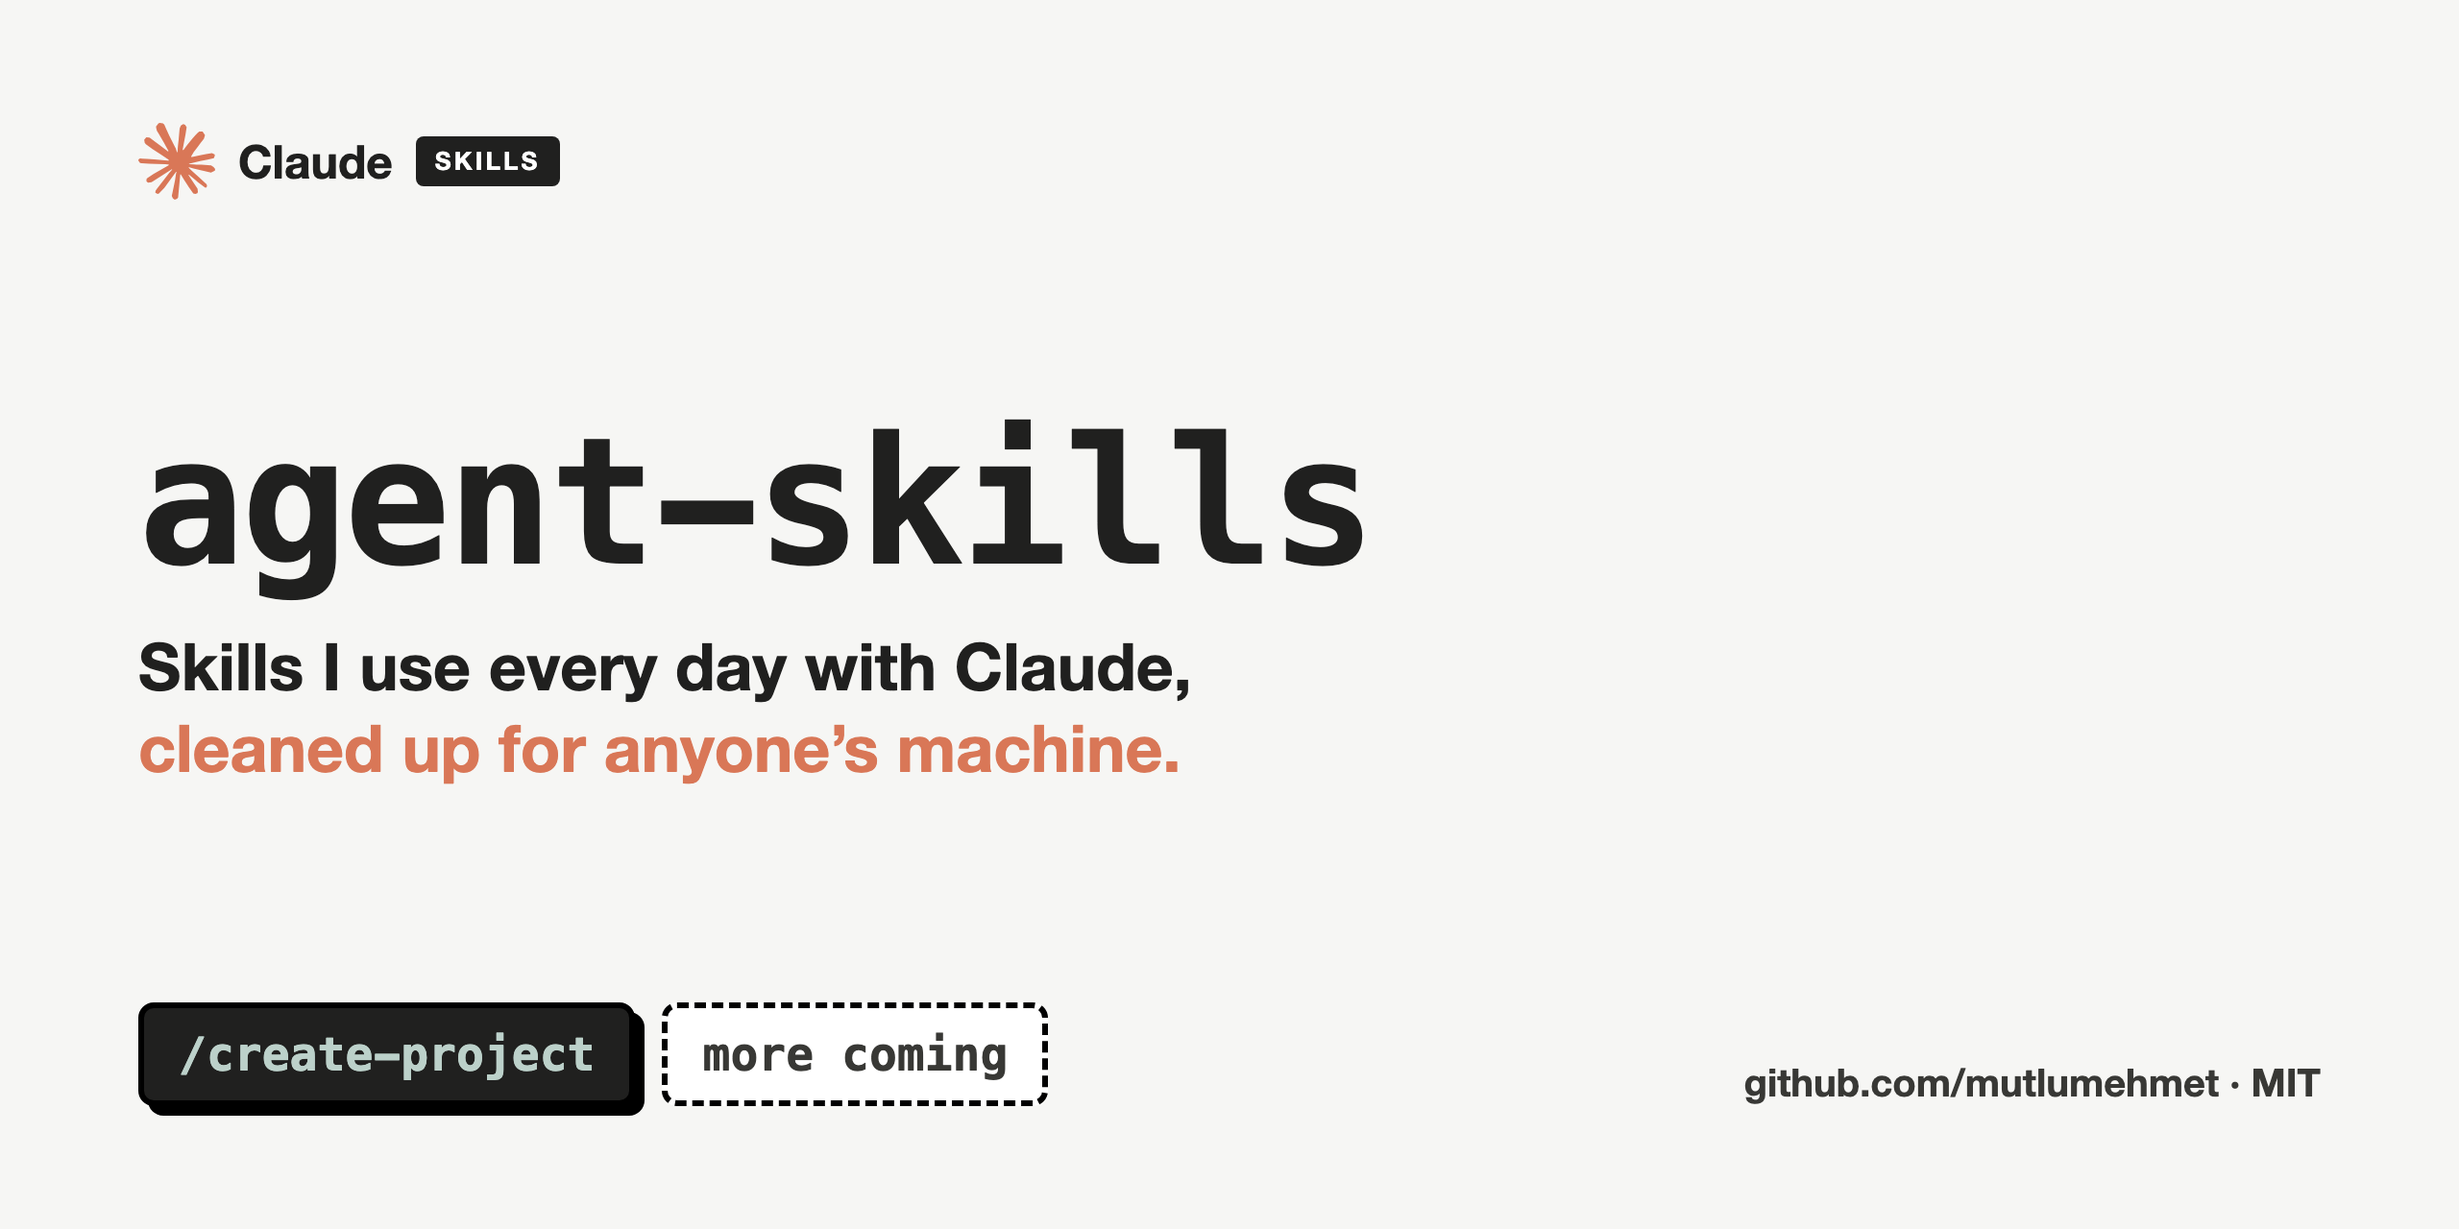
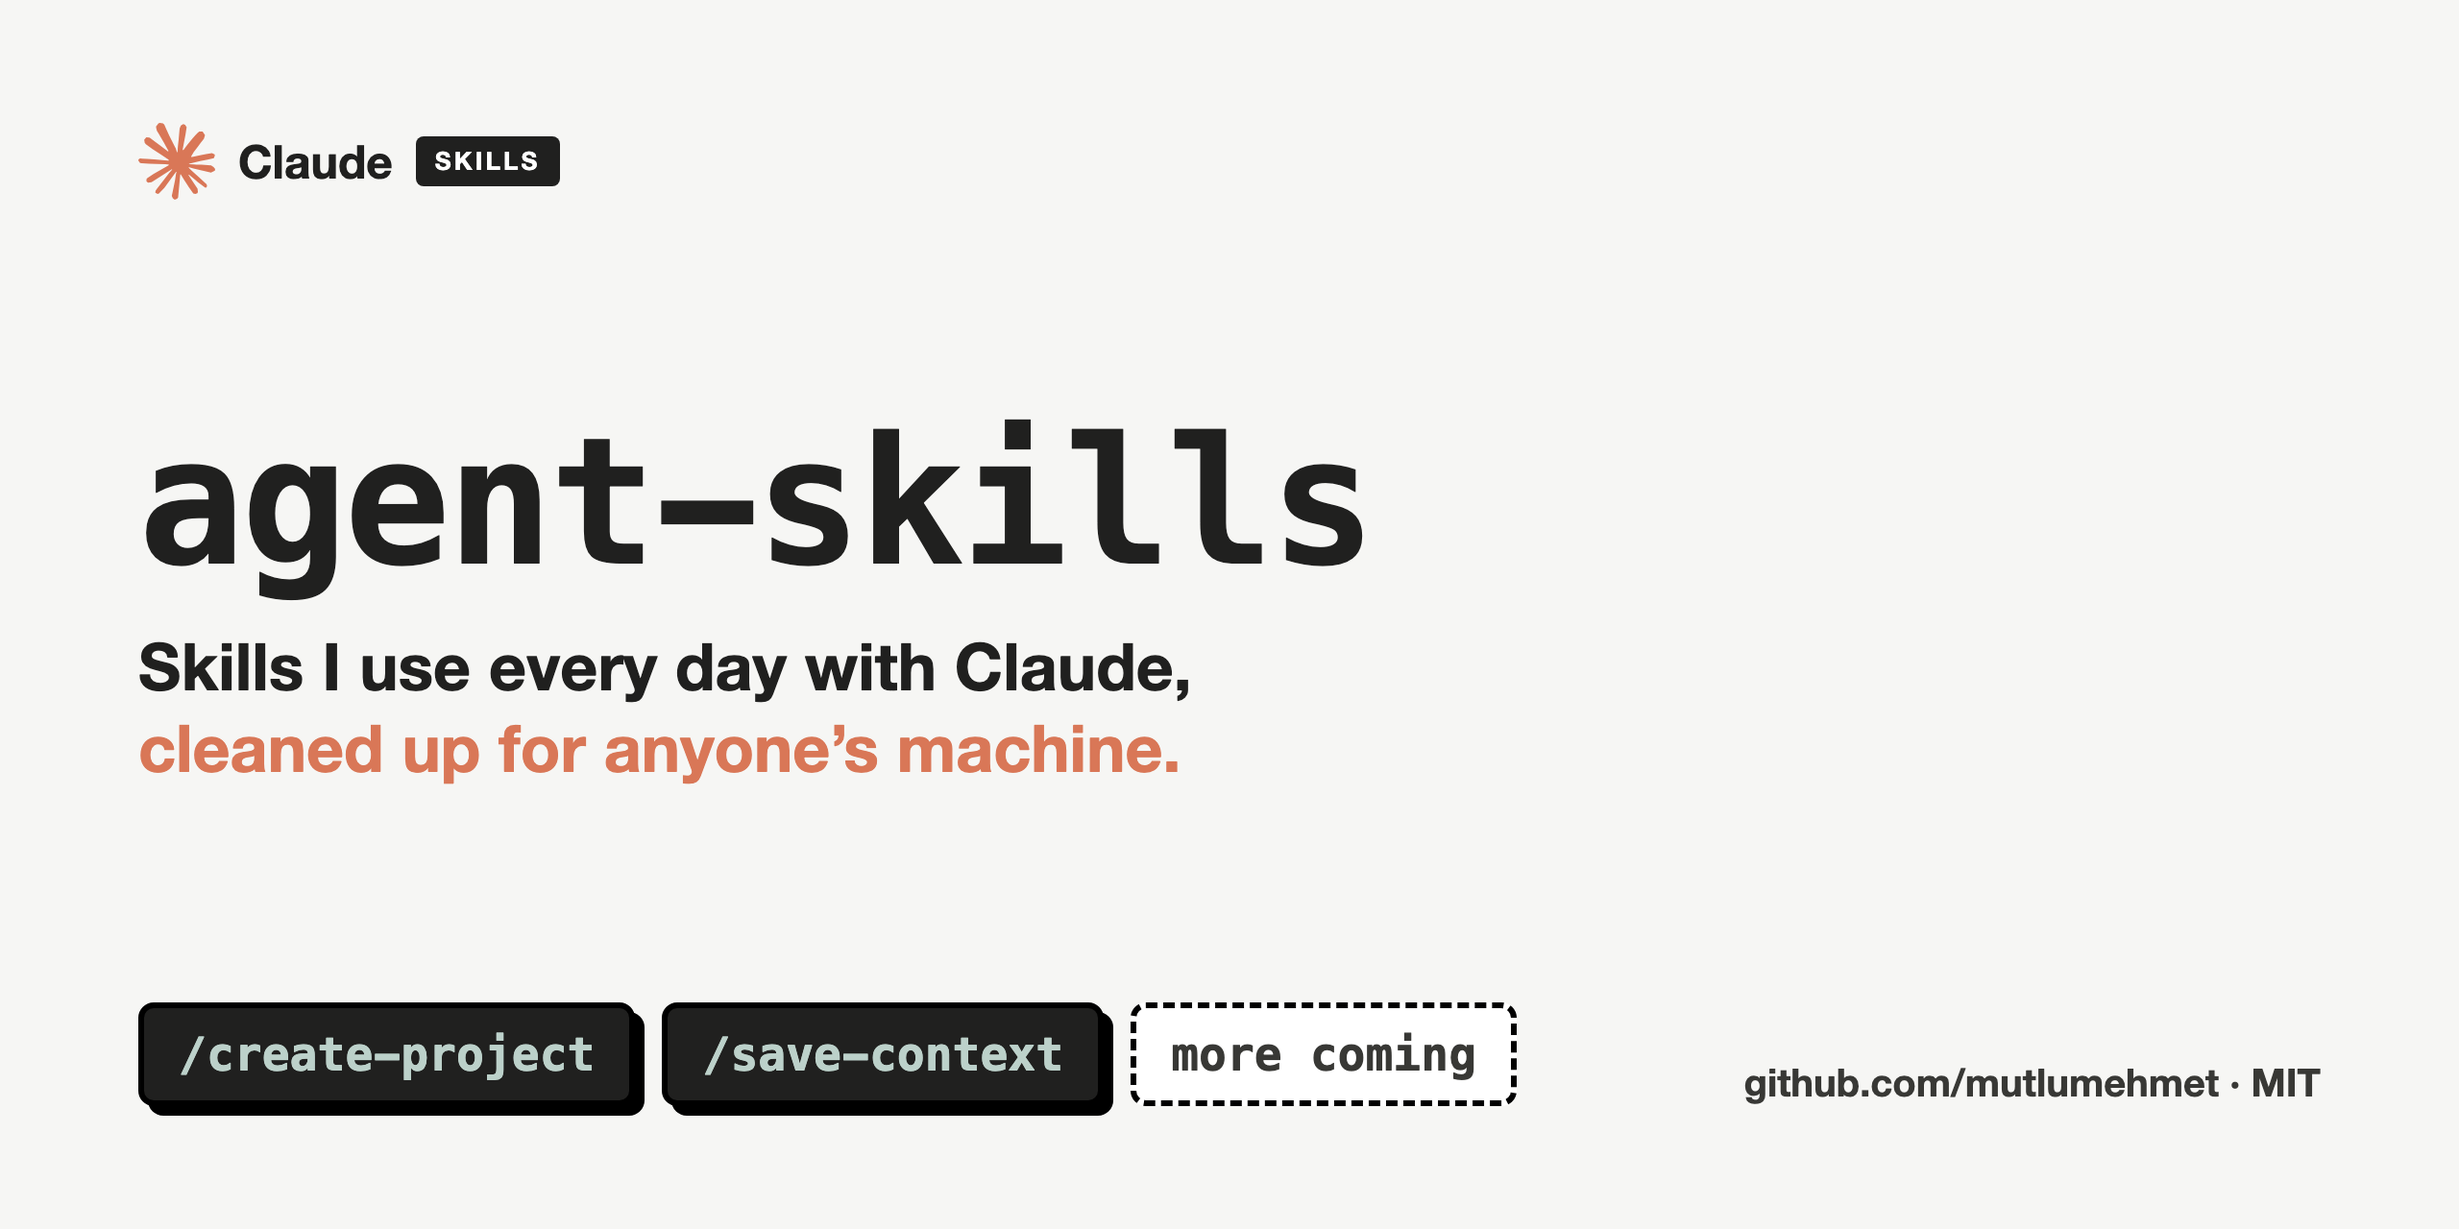
Add save-context: save a session's decisions and state before closing it

Changed region(s): [[0.25, 0.8125, 0.625, 0.9062]]

diff --git a/skills/save-context/SKILL.md b/skills/save-context/SKILL.md
@@ -1,0 +1,202 @@
+---
+name: save-context
+description: Saves what a working session decided, changed, learned or left open, so the next conversation starts with it already in context. Discovers what the project keeps (STATUS.md, CLAUDE.md, the agent's memory files, registers, context folders), maps each item from the conversation to the one place it belongs, shows the user the plan in one list, writes it after approval, hands items to other skills that own a destination, and commits only the files it touched without pushing. Works in any project. Use at the end of a session, or as a checkpoint before switching to a different task. Triggers on "save context", "save-context", "wrap up", "wrap-up", "close the session", "did you update everything", "update status and memory", "save the context", "before we close", "before I close this", "handoff", "checkpoint", "make sure the next session knows".
+allowed-tools:
+  - Bash
+  - Read
+  - Write
+  - Edit
+  - AskUserQuestion
+  - Skill
+---
+
+# Save context before closing a session
+
+The goal is one thing: **a fresh session, reading only what the project already tells it to read,
+must know everything from this conversation that matters later.** Anything that only mattered
+inside this conversation stays out.
+
+## Step 0: Load the config (optional)
+
+The config lives at `$SAVE_CONTEXT_CONFIG` if set, otherwise `~/.config/save-context/config.yaml`.
+
+```bash
+CFG_FILE="${SAVE_CONTEXT_CONFIG:-$HOME/.config/save-context/config.yaml}"; test -f "$CFG_FILE" && cat "$CFG_FILE"
+```
+
+Every key is optional and the skill works with no file at all, so there is no setup round. If the
+file is missing, use the defaults below and carry on. `config.example.yaml` next to this file
+documents each key.
+
+| Key | Default | Effect |
+|---|---|---|
+| `tasks_skill` | empty | Skill that records dated promises and to-dos (for example a Notion or Todoist task skill). Empty: such items go to STATUS.md under next steps |
+| `commit` | `true` | Commit the touched files at the end. `false`: leave them uncommitted and say so. Pushing never happens either way |
+
+## Step 1: Discover what this project keeps
+
+Do not assume a layout. Find it.
+
+```bash
+ROOT=$(git rev-parse --show-toplevel 2>/dev/null || pwd); echo "$ROOT"
+ls "$ROOT"; git -C "$ROOT" status --short 2>/dev/null
+CC="${CLAUDE_CONFIG_DIR:-$HOME/.claude}"
+MEM="$CC/projects/$(echo "$ROOT" | sed 's|/|-|g')/memory"; ls "$MEM" 2>/dev/null
+```
+
+`MEM` is where Claude Code keeps per-project memory. If the environment uses a different memory
+location or format (its system prompt will say), follow that instead.
+
+Then read, in this order:
+
+1. The project's `CLAUDE.md` (and any nested one it points to). It names the files that carry
+   state, the reading order, language rules, and which files are canonical vs mirrors or
+   superseded. **Its rules override this skill** (for example: shared docs in one language and
+   private notes in another; a folder that is an export and must not be edited; counts verified by
+   a script).
+2. `STATUS.md` if it exists.
+3. `MEMORY.md` in the memory directory, plus any memory file whose description touches what this
+   session worked on.
+4. Every other context file the CLAUDE.md reading order names (registers, "where we stand"
+   summaries, context folders such as `context/`, `docs/`, `notes/`). Only the ones this session
+   could have made stale.
+
+Note which files were already modified or untracked before you started. They are not yours to
+commit (Step 6).
+
+If the project has no STATUS.md and no CLAUDE.md, say so in the plan and propose creating
+STATUS.md only. Never invent a CLAUDE.md without asking.
+
+## Step 2: Harvest the conversation
+
+Go through the whole conversation, including anything compacted into a summary, and list every
+item of these kinds:
+
+- **Decisions** made, reversed, or deferred, with the reason.
+- **State changes**: things built, fixed, deployed, sent, closed, measured. Include identifiers a
+  later session needs (dates, ids, URLs, PR numbers, counts).
+- **New facts** about the project, the system, people, or constraints.
+- **Corrections and preferences** the user gave about how to work. These become memory.
+- **Open threads**: what is next, what is blocked and on whom, what was promised to someone.
+- **Traps discovered**: things that looked one way and were another.
+
+Then drop anything a fresh session can already get from the code, git log, or existing files, and
+anything that only mattered for this conversation.
+
+## Step 3: Route each item
+
+| Item | Goes to |
+|---|---|
+| Where things stand, what is next, open threads, blockers | `STATUS.md` |
+| How the user wants the agent to work: corrections, confirmed approaches | memory, type `feedback` |
+| Lasting non-obvious project facts, constraints, traps | memory, type `project` or `reference` |
+| A lasting rule or decision that every session must obey | `CLAUDE.md` (rare; routine progress never goes here) |
+| A row in a project register (findings, decisions, incidents) | the register, through its owning skill if one exists |
+| A summary or context file this session made stale | that file, edited in place |
+| A dated promise to someone, a thing to do later | `tasks_skill` if set, otherwise STATUS.md next steps |
+
+Rules for routing:
+
+- **Owning skills first.** A skill owns a destination when its description says it writes there
+  (a findings register, a task list, a ticket tracker). List the item as "hand to <skill>" and
+  invoke that skill after approval. Never hand-roll what a skill does, because it may keep two
+  places in sync or apply checks you would skip.
+- **One home per fact.** If the project separates registers from tasks (a fact vs a promise), keep
+  each item in exactly one place.
+- **Update, don't duplicate.** If an existing memory or STATUS line covers it, change that line.
+  Delete memories this session proved wrong. Fix a stale line rather than appending a contradicting
+  one below it.
+- **Absolute dates.** Turn "today", "tomorrow", "Thursday" into real dates.
+- **Superseded files** keep their banner and are not edited back into life.
+
+## Step 4: Show the plan, once
+
+Present one compact list, grouped by destination, each line saying what will change:
+
+```
+STATUS.md
+  - "Now": cutover moved to 14 Oct, with the reason
+  - "Next": waiting on the client for sign-off
+Memory
+  - new feedback: recommend one option, not a menu (feedback_recommend_one.md)
+  - update project_env_count.md: 8 environments, not 6
+Register (via findings-log)
+  - Red: nightly backups not running since 3 Sep
+Nothing to save
+  - the typo fix in a throwaway script
+```
+
+Always include the "Nothing to save" group, so the user can pull something back in. If there is
+nothing to save, say "Nothing new to save, everything is already recorded" and stop.
+
+Ask with `AskUserQuestion`: write all / let me adjust / skip. Do not write before the answer. This
+step is the point of the skill: the user sees what will be remembered, and can catch a wrong or
+missing item while the conversation is still fresh.
+
+## Step 5: Write
+
+Order matters, because STATUS.md should describe what actually happened, not what was planned:
+
+1. **Run the owning skills first** (register rows, tasks). They often assign something the other
+   files should cite, such as a register ref or a task link.
+2. **Then write the files**, citing those results. If a handoff was declined, failed, or could not
+   run, put it in STATUS.md under next steps as still pending (for example "backup finding not yet
+   in the register"). Never write that something is "tracked in the task list" or "in the register"
+   unless that handoff actually succeeded, because the next session will trust the sentence and not
+   check.
+
+While writing:
+
+- **Re-read each file immediately before editing it.** Another session may have written to it since
+  Step 1. Address table columns by header, not position. If the project has a check script for a
+  file (its CLAUDE.md will name it), run it after editing.
+- Follow the project's language rules per file.
+- **Touch only the lines this session changed.** Do not restyle, reflow or "fix" untouched lines,
+  even to apply a style rule; it hides the real change in the diff and can collide with another
+  session's edit.
+- STATUS.md: keep it a current picture, not a diary. Rewrite the sections that changed; move
+  finished items out of "next" instead of piling up history.
+- Memory files, one fact per file, named `<type>_<slug>.md`:
+
+  ```markdown
+  ---
+  name: <short-kebab-case-slug>
+  description: <one-line summary, used to decide relevance during recall>
+  metadata:
+    type: user | feedback | project | reference
+  ---
+
+  <the fact>
+
+  **Why:** <reason>  (feedback and project types)
+  **How to apply:** <what to do differently>
+  ```
+
+  Link related memories with `[[slug]]`, and add or update a one-line pointer in `MEMORY.md`:
+  `- [Title](file.md): hook`.
+
+## Step 6: Commit, never push
+
+Skip this step if `commit: false` or the folder is not a git repo. Memory lives outside the repo
+and is not committed.
+
+```bash
+git -C "$ROOT" status --short
+git -C "$ROOT" diff --stat
+```
+
+- Stage **only the files this run touched**, by name. Never `git add -A`. Files that were already
+  modified or untracked before you started (Step 1) belong to the user or another session: leave
+  them, and mention them in the report.
+- If a file you touched also carries someone else's uncommitted changes, do not commit it; say so.
+- Commit message: one line on what the session did, in the repo's usual style, plus any attribution
+  lines the environment asks for.
+- Never push.
+
+## Step 7: Report
+
+Three or four lines: what was written where, the commit hash, anything left uncommitted and why,
+and anything handed to another skill that is still waiting on the user. Then stop.
+
+Keep the plan and the report short, one line per item, and follow the user's own style rules from
+their global instructions.

diff --git a/skills/save-context/README.md b/skills/save-context/README.md
@@ -1,0 +1,85 @@
+# save-context
+
+Saves what a working session decided, changed and learned, so the next conversation starts with it
+already in context. Part of [agent-skills](../../README.md).
+
+At the end of every session I used to ask the same question: "did you update everything? Status,
+memory, whatever the next session needs?" The answer was usually "mostly". This skill turns that
+question into a routine with a plan you approve before anything is written.
+
+## What it does
+
+1. **Finds what the project keeps.** Reads the project's `CLAUDE.md`, `STATUS.md`, the agent's
+   memory files and any register or context folder the project names. The project's own rules
+   (language per file, folders that must not be edited, check scripts) override the skill.
+2. **Harvests the conversation.** Decisions, state changes, new facts, your corrections, open
+   threads, promises, and traps that looked one way and were another. Drops what the code or git
+   log already says, and what only mattered in this conversation.
+3. **Routes each item to one place.** Current state to `STATUS.md`, how you like to work to memory,
+   lasting rules to `CLAUDE.md` (rarely), register rows and tasks to the skills that own them.
+4. **Shows you the plan once**, grouped by destination, including a "Nothing to save" group so you
+   can pull something back in. Nothing is written before you approve.
+5. **Writes, in the right order.** Other skills run first, so `STATUS.md` cites what actually
+   happened. A handoff that did not go through is recorded as still pending, never as done.
+6. **Commits only what it touched**, and never pushes.
+
+If everything was already saved during the session, it says so and changes nothing.
+
+## First run
+
+There is no setup. The skill works with no config file. To change a default, copy
+[`config.example.yaml`](config.example.yaml) to `~/.config/save-context/config.yaml`, or set
+`SAVE_CONTEXT_CONFIG` to keep it somewhere else.
+
+## Configuration
+
+Every key is optional.
+
+| Key | What it is for | Default |
+|---|---|---|
+| `commit` | Commit the touched files at the end. `false` leaves them uncommitted | `true` |
+
+## Optional integrations
+
+| Key | Use it if | What happens |
+|---|---|---|
+| `tasks_skill` | You have a skill that records to-dos (Notion, Todoist, a tracker) | Dated promises like "send the roster by Friday" are handed to it. Empty: they go to `STATUS.md` under next steps |
+
+Any other skill whose description says it writes to a destination (a findings register, a ticket
+tracker) is used for that destination automatically, after you approve the plan.
+
+## What it will never do
+
+- Write anything before you approve the plan.
+- Push to a remote.
+- Stage with `git add -A`, or commit files that were already modified or untracked before it ran.
+- Create a `CLAUDE.md` without asking.
+- Rewrite lines the session did not change, even to fix their style.
+- Claim something is recorded elsewhere when that handoff did not succeed.
+
+## Requirements
+
+An agent that reads skills folders (built for Claude Code), and `git` if you want the commit.
+Memory handling follows Claude Code's per-project memory folder; in other environments the skill
+uses whatever memory location the environment describes.
+
+## Install
+
+As a Claude Code plugin:
+
+```
+/plugin marketplace add mutlumehmet/agent-skills
+/plugin install save-context@mutlumehmet-agent-skills
+```
+
+Plugin skills are namespaced, so it runs as `/save-context:save-context`, or just say "wrap up" or
+"did you update everything before I close?".
+
+As a plain skill: copy or symlink this folder into your skills directory.
+
+```bash
+git clone https://github.com/mutlumehmet/agent-skills.git
+ln -s "$PWD/agent-skills/skills/save-context" ~/.claude/skills/save-context
+```
+
+Then say "save context" at the end of a session.

diff --git a/STATUS.md b/STATUS.md
@@ -1,7 +1,7 @@
 # agent-skills: current state
 
-Last updated: **30 September 2026**. First skill, `create-project`, written, tested in three
-scenarios (no config, full config, minimal config) and in daily use. Public since 30 September 2026.
+Last updated: **1 October 2026**. Two skills: `create-project` (public since 30 September 2026) and
+`save-context` (added 1 October 2026, tested with no config, a full config and `commit: false`).
 
 ## At a glance
 
@@ -13,6 +13,7 @@ scenarios (no config, full config, minimal config) and in daily use. Public sinc
 | README | Written: index, install, config reference, optional integrations |
 | `create-project` | Written and tested: configurable storage, GitHub accounts, languages, optional account tool and registry |
 | Personal-content check | `scripts/check-personal.sh`, installed as a pre-commit hook |
+| `save-context` | Written and tested: optional `tasks_skill` and `commit` settings, works with no config |
 | Plugin marketplace manifest | Added, passes `claude plugin validate` |
 
 ## Next actions
@@ -26,5 +27,6 @@ scenarios (no config, full config, minimal config) and in daily use. Public sinc
   brings every skill, and larger standalone tools get their own repositories.
 - **30 September 2026:** MIT license. English only. Per-user values live in a config file outside the
   repo, so the published skill and its author's own copy share the same code.
+- **1 October 2026:** `save-context` added. Banner re-rendered with its chip.
 - **30 September 2026:** Made public. Install commands from the README tested on a clean setup:
   marketplace add, plugin install, and a plain clone all work.

diff --git a/README.md b/README.md
@@ -19,6 +19,7 @@ Each skill has its own page with what it does, its settings and what it will nev
 | Skill | What it does |
 |---|---|
 | [`create-project`](skills/create-project) | Sets up a new project folder the same way every time, for code or for a folder of notes and documents: asks a few questions, keeps heavy and sensitive files out of git, writes `CLAUDE.md` and `STATUS.md` |
+| [`save-context`](skills/save-context) | Before you close a session, saves what it decided, changed and left open to the right places (`STATUS.md`, memory, registers, other skills), after you approve one plan, so the next session starts with it in context |
 
 ## Install
 
